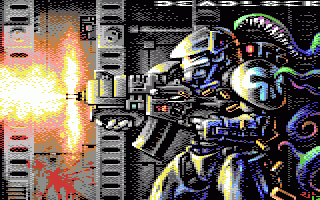
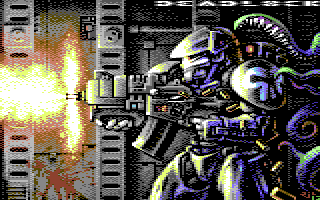
add -brute-force mode

diff --git a/cmd/png2prg/main.go b/cmd/png2prg/main.go
@@ -10,6 +10,8 @@ import (
 	"path/filepath"
 	"runtime"
 	"runtime/pprof"
+	"sort"
+	"strconv"
 	"strings"
 	"sync"
 	"time"
@@ -63,6 +65,17 @@ func main() {
 	}
 	if len(filenames) == 0 {
 		log.Printf("no files found")
+		return
+	}
+
+	if opt.BruteForce {
+		if err = bruteForce(opt, filenames[0]); err != nil {
+			log.Fatalf("bruteForce failed: %v", err)
+			return
+		}
+		if !opt.Quiet {
+			fmt.Printf("elapsed: %v\n", time.Since(t0))
+		}
 		return
 	}
 
@@ -169,16 +182,6 @@ func processInParallel(opt *png2prg.Options, filenames ...string) error {
 	return nil
 }
 
-func writeMemProfile(path string) error {
-	f, err := os.Create(path)
-	if err != nil {
-		return fmt.Errorf("Create failed: %w", err)
-	}
-	defer f.Close()
-	runtime.GC()
-	return pprof.WriteHeapProfile(f)
-}
-
 // worker runs one worker to process incoming conversion jobs.
 // The caller is expected to start 1 or more workers to process jobs in parallel.
 // The caller is also expected to close(jobs) when done and wait for wg.Wait().
@@ -193,6 +196,139 @@ func worker(i int, opt png2prg.Options, wg *sync.WaitGroup, jobs <-chan string) 
 			fmt.Printf("worker %d converted %q to %q\n", i, filename, opt.OutFile)
 		}
 	}
+}
+
+type res struct {
+	bpc    string
+	length int
+}
+
+func bruteForce(opt png2prg.Options, filename string) error {
+	origOpt := opt
+	opt.NoCrunch = false
+	bin, err := os.ReadFile(filename)
+	if err != nil {
+		return fmt.Errorf("os.ReadFile %q failed; %w", filename, err)
+	}
+	p1, err := png2prg.New(opt, bytes.NewReader(bin))
+	if err != nil {
+		return fmt.Errorf("png2prg.New failed: %w", err)
+	}
+	buf := &bytes.Buffer{}
+	if _, err = p1.WriteTo(buf); err != nil {
+		return fmt.Errorf("p.WriteTo failed: %w", err)
+	}
+	colors := p1.SortedColors()
+
+	num := numWorkers
+	jobs := make(chan png2prg.Options, num)
+	result := make(chan res, num)
+	wg := &sync.WaitGroup{}
+	wg.Add(num)
+	for i := 1; i <= num; i++ {
+		go bruteWorker(i, wg, jobs, bin, result)
+	}
+	out := []res{}
+	go func() {
+		for v := range result {
+			out = append(out, v)
+		}
+		wg.Done()
+	}()
+	if !opt.Quiet {
+		fmt.Printf("started %d brute-force workers\n", num)
+	}
+
+	const permuteLen = 8
+	if len(colors) > permuteLen {
+		colors = colors[0:permuteLen]
+	}
+	done := map[[4]byte]bool{}
+	count := 0
+	total := 0
+	for p := make([]int, len(colors)); p[0] < len(p); png2prg.PermuteNext(p) {
+		count++
+		s := png2prg.Permutation(colors, p)
+		if len(s) > 4 {
+			s = s[:4]
+		}
+		tmp := [4]byte{s[0], s[1], s[2], s[3]}
+		if _, ok := done[tmp]; ok {
+			continue
+		}
+		done[tmp] = true
+
+		bitpaircols := ""
+		for i, col := range s {
+			bitpaircols += strconv.Itoa(int(col))
+			if i < len(s)-1 {
+				bitpaircols += ","
+			}
+		}
+		opt.BitpairColorsString = bitpaircols
+		opt.Display = true
+		opt.NoCrunch = false
+		opt.Verbose = false
+		opt.VeryVerbose = false
+		opt.Quiet = true
+		jobs <- opt
+		total++
+		if !origOpt.Quiet && total%10 == 0 {
+			fmt.Print(".")
+		}
+	}
+	close(jobs)
+	wg.Wait()
+	wg.Add(1)
+	close(result)
+	wg.Wait()
+	opt = origOpt
+	if !opt.Quiet {
+		fmt.Println()
+	}
+	sort.Slice(out, func(i, j int) bool { return out[i].length < out[j].length })
+	if opt.Verbose {
+		for i := range out {
+			log.Printf("out[%d]: %v", i, out[i])
+			if !opt.VeryVerbose && i == 9 {
+				break
+			}
+		}
+	}
+	if !opt.Quiet {
+		fmt.Printf("brute-force winner %q -bpc %v\n", filename, out[0].bpc)
+	}
+	opt.BitpairColorsString = out[0].bpc
+	if err = processAsOne(&opt, filename); err != nil {
+		return fmt.Errorf("processAsOne failed: %w", err)
+	}
+	return nil
+}
+
+func bruteWorker(i int, wg *sync.WaitGroup, jobs <-chan png2prg.Options, bin []byte, result chan res) {
+	defer wg.Done()
+	for opt := range jobs {
+		p2p, err := png2prg.New(opt, bytes.NewReader(bin))
+		if err != nil {
+			log.Printf("worker %d: png2prg.New failed: %v", i, err)
+			continue
+		}
+		buf := bytes.Buffer{}
+		if _, err = p2p.WriteTo(&buf); err != nil {
+			continue
+		}
+		result <- res{bpc: opt.BitpairColorsString, length: buf.Len()}
+	}
+}
+
+func writeMemProfile(path string) error {
+	f, err := os.Create(path)
+	if err != nil {
+		return fmt.Errorf("Create failed: %w", err)
+	}
+	defer f.Close()
+	runtime.GC()
+	return pprof.WriteHeapProfile(f)
 }
 
 // expandWildcards searches all filenames for ? and * characters and manually finds matching files on the filesystem.
@@ -252,6 +388,8 @@ func initAndParseFlags() (opt png2prg.Options) {
 	flag.StringVar(&opt.BitpairColorsString, "bitpair-colors", "", "prefer these colors in 2bit space, eg 0,6,14,3")
 	flag.IntVar(&opt.ForceBorderColor, "force-border-color", -1, "force border color")
 
+	flag.BoolVar(&opt.BruteForce, "bf", false, "brute-force")
+	flag.BoolVar(&opt.BruteForce, "brute-force", false, "brute force bitpair-colors")
 	flag.BoolVar(&opt.NoGuess, "ng", false, "no-guess")
 	flag.BoolVar(&opt.NoGuess, "no-guess", false, "do not guess preferred bitpair-colors")
 	flag.BoolVar(&opt.NoPackChars, "np", false, "no-pack")

diff --git a/png2prg.go b/png2prg.go
@@ -16,6 +16,7 @@ import (
 	"log"
 	"os"
 	"path/filepath"
+	"sort"
 	"strconv"
 	"strings"
 	"time"
@@ -25,7 +26,7 @@ import (
 )
 
 const (
-	Version              = "1.7.2-dev"
+	Version              = "1.7.3-dev"
 	displayerJumpTo      = "$0822"
 	MaxColors            = 16
 	MaxChars             = 256
@@ -55,6 +56,7 @@ type Options struct {
 	VeryVerbose         bool
 	Quiet               bool
 	Display             bool
+	BruteForce          bool
 	NoPackChars         bool
 	NoPackEmptyChar     bool
 	ForcePackEmptyChar  bool
@@ -661,6 +663,27 @@ func NewFromPath(opt Options, filenames ...string) (*Converter, error) {
 		in = append(in, f)
 	}
 	return New(opt, in...)
+}
+
+func (c *Converter) SortedColors() []byte {
+	bpc := c.images[0].preferredBitpairColors
+	log.Printf("-bpc %s", bpc)
+	_, _, sumColors := c.images[0].countColors()
+	type sumcol struct {
+		col   byte
+		count int
+	}
+	sc := []sumcol{}
+	for col, count := range sumColors {
+		sc = append(sc, sumcol{col: byte(col), count: count})
+	}
+	sort.Slice(sc, func(i, j int) bool { return sc[i].count > sc[j].count })
+	result := make([]byte, len(sc), len(sc))
+	for i, scol := range sc {
+		result[i] = scol.col
+	}
+	log.Printf("result: %v", result)
+	return result
 }
 
 // WriteTo processes the image(s) and writes the resulting .prg to w.

diff --git a/doc.go b/doc.go
@@ -287,6 +287,9 @@ func PrintHelp() {
 	fmt.Println()
 	fmt.Printf("## Changes for version %s\n", Version)
 	fmt.Println()
+	fmt.Println(" - Improve crunchiness by re-using the previous char's bitpair-colors.")
+	fmt.Println(" - Add experimental -brute-force mode to find bitpair color combinations")
+	fmt.Println("   with better crunchiness. Burns some CPU for a couple seconds.")
 	fmt.Println(" - Added multi-frame support for mccharset, where all frames use the same")
 	fmt.Println("   charset.")
 	fmt.Println(" - Add support for any centered fullscreen image resolution bigger than")

diff --git a/analyze.go b/analyze.go
@@ -483,7 +483,9 @@ type sortcolor struct {
 
 func (img *sourceImage) findECMColors() error {
 	if len(img.preferredBitpairColors) == 4 {
-		log.Printf("skipping findECMColors because we have 4 img.preferredBitpairColors %s", img.preferredBitpairColors)
+		if img.opt.Verbose {
+			log.Printf("skipping findECMColors because we have 4 img.preferredBitpairColors %s", img.preferredBitpairColors)
+		}
 		img.ecmColors = img.preferredBitpairColors
 		return nil
 	}

diff --git a/readme.md b/readme.md
@@ -1,4 +1,4 @@
-# PNG2PRG 1.7.2-dev by burg
+# PNG2PRG 1.7.3-dev by burg
 
 Png2prg converts a 320x200 image (png/gif/jpeg) to a c64 hires or
 multicolor bitmap, charset, petscii, ecm or sprites prg. It will find the best
@@ -273,8 +273,11 @@ func convertPNG(w io.Writer, png io.Reader) (int64, error) {
 }
 ```
 
-## Changes for version 1.7.2-dev
+## Changes for version 1.7.3-dev
 
+ - Improve crunchiness by re-using the previous char's bitpair-colors.
+ - Add experimental -brute-force mode to find bitpair color combinations
+   with better crunchiness. Burns some CPU for a couple seconds.
  - Added multi-frame support for mccharset, where all frames use the same
    charset.
  - Add support for any centered fullscreen image resolution bigger than
@@ -357,10 +360,14 @@ tables used in the koala and hires displayers.
     	use alternate screenshot offset with x,y = 32,36
   -ao
     	alt-offset
+  -bf
+    	brute-force
   -bitpair-colors string
     	prefer these colors in 2bit space, eg 0,6,14,3
   -bpc string
     	bitpair-colors
+  -brute-force
+    	brute force bitpair-colors
   -cpuprofile file
     	write cpu profile to file
   -d	display
